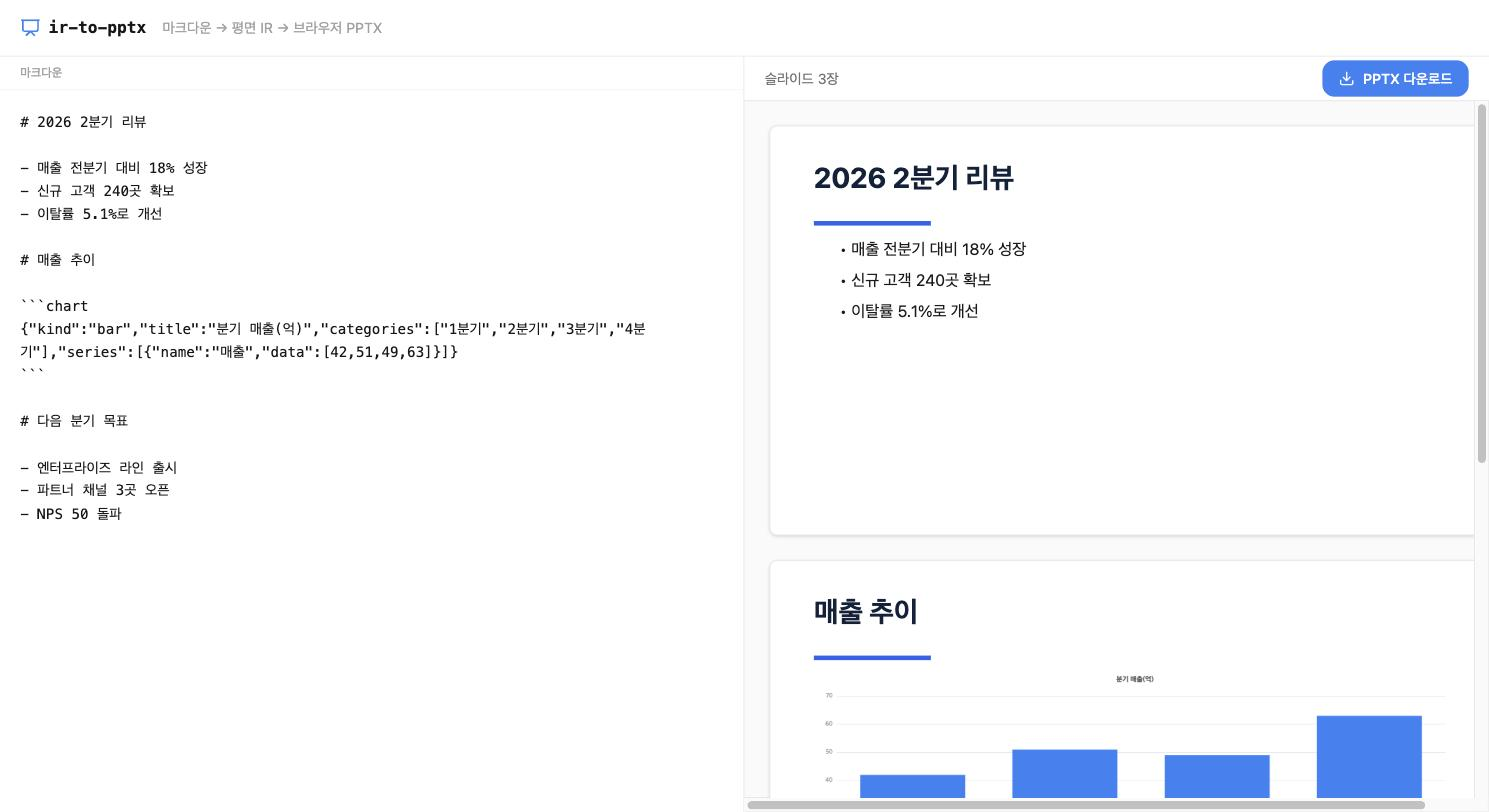
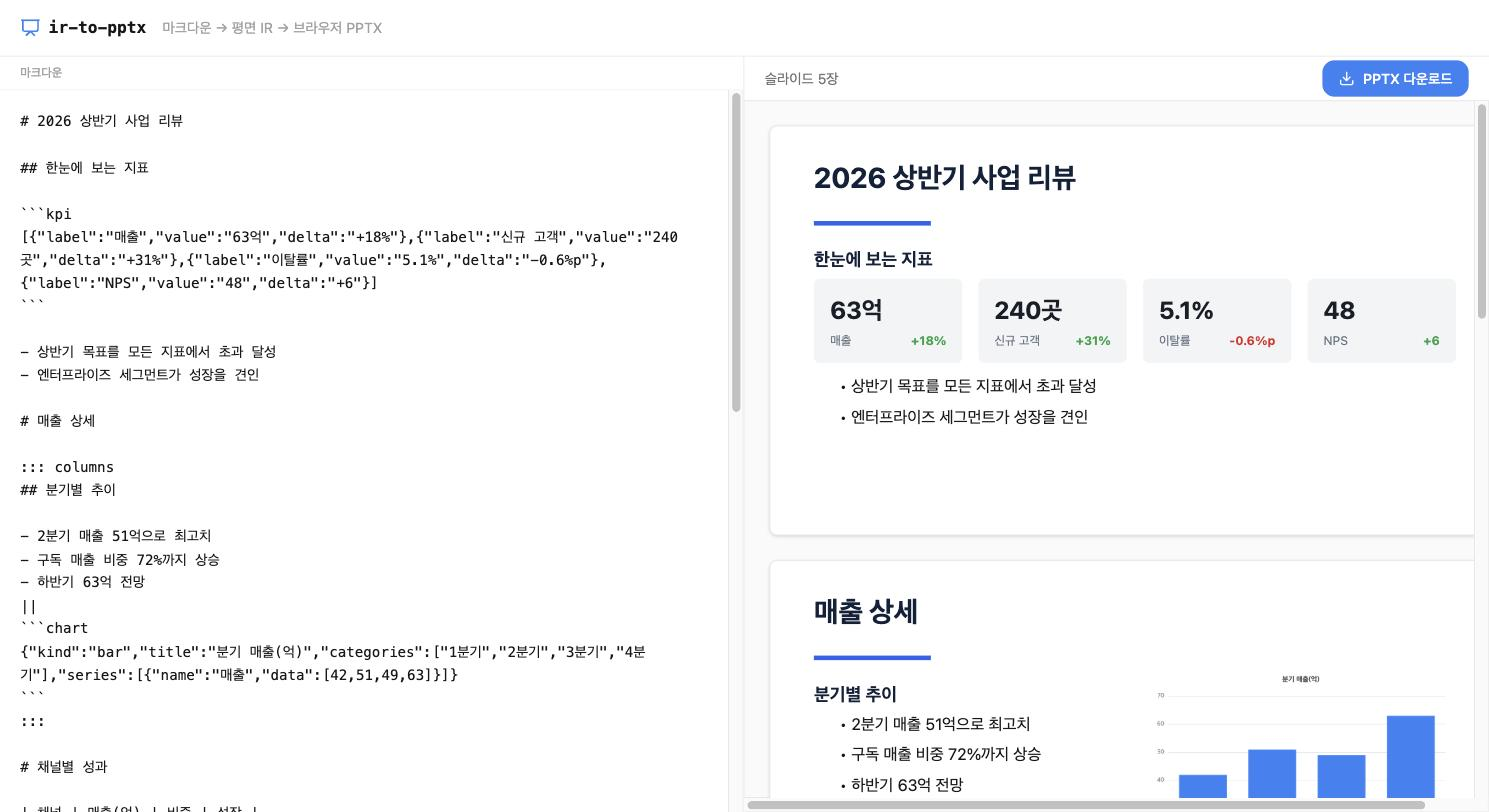
docs: 리치 예시 덱과 새 미리보기, 입력 형식 문법 추가
예시 덱을 KPI 타일·2단 컬럼·표·소제목·bar/line/pie 를 다 쓰는 사업 리뷰로 교체.
README 입력 형식에 소제목·kpi·columns·표 문법과 예시를 넣고, 표 지원으로
바뀐 한계 항목을 정리. 상단 스크린샷도 리치 덱 화면으로 교체.

diff --git a/web/src/sample.ts b/web/src/sample.ts
@@ -1,19 +1,65 @@
 // 처음 화면에 뜨는 예시 덱. 외부 데이터·키 없이 바로 돌아가게 동봉한다.
-export const SAMPLE_MARKDOWN = `# 2026 2분기 리뷰
+// samples/deck.md 와 같은 내용이다.
+export const SAMPLE_MARKDOWN = `# 2026 상반기 사업 리뷰
 
-- 매출 전분기 대비 18% 성장
-- 신규 고객 240곳 확보
-- 이탈률 5.1%로 개선
+## 한눈에 보는 지표
 
-# 매출 추이
+\`\`\`kpi
+[{"label":"매출","value":"63억","delta":"+18%"},{"label":"신규 고객","value":"240곳","delta":"+31%"},{"label":"이탈률","value":"5.1%","delta":"-0.6%p"},{"label":"NPS","value":"48","delta":"+6"}]
+\`\`\`
 
+- 상반기 목표를 모든 지표에서 초과 달성
+- 엔터프라이즈 세그먼트가 성장을 견인
+
+# 매출 상세
+
+::: columns
+## 분기별 추이
+
+- 2분기 매출 51억으로 최고치
+- 구독 매출 비중 72%까지 상승
+- 하반기 63억 전망
+||
 \`\`\`chart
 {"kind":"bar","title":"분기 매출(억)","categories":["1분기","2분기","3분기","4분기"],"series":[{"name":"매출","data":[42,51,49,63]}]}
 \`\`\`
+:::
 
-# 다음 분기 목표
+# 채널별 성과
 
-- 엔터프라이즈 라인 출시
-- 파트너 채널 3곳 오픈
-- NPS 50 돌파
+| 채널 | 매출(억) | 비중 | 성장 |
+|---|---|---|---|
+| 다이렉트 | 28 | 44% | +12% |
+| 파트너 | 19 | 30% | +38% |
+| 마켓플레이스 | 16 | 26% | +9% |
+
+## 파트너 채널이 가장 빠르게 성장
+
+- 신규 파트너 3곳 온보딩 완료
+- 파트너 전용 대시보드 출시가 주효
+
+# 제품 지표
+
+::: columns
+\`\`\`chart
+{"kind":"line","title":"주간 활성 사용자(천명)","categories":["1월","2월","3월","4월","5월","6월"],"series":[{"name":"WAU","data":[12,15,18,21,26,31]}]}
+\`\`\`
+||
+\`\`\`chart
+{"kind":"pie","title":"기능별 사용 비중","categories":["편집","공유","분석","자동화"],"series":[{"name":"사용","data":[38,27,20,15]}]}
+\`\`\`
+:::
+
+# 다음 반기 계획
+
+## 우선순위
+
+- 엔터프라이즈 라인 정식 출시
+- 파트너 채널 5곳으로 확대
+- 자동화 기능 정식 출시
+
+## 리스크
+
+- 대형 계약 갱신 시점이 3분기에 몰려 있음
+- 인프라 비용 증가 추세
 `;

diff --git a/README.md b/README.md
@@ -52,12 +52,16 @@ cd web && pnpm install && pnpm dev
 | 문법 | 결과 |
 |---|---|
 | `# 제목` | 새 슬라이드 + 제목 |
-| `- 항목` | 불릿 한 줄 |
+| `## 소제목` | 본문 안 소제목 |
+| `- 항목` | 불릿 한 줄 (중첩하면 들여쓰기) |
 | 일반 문단 | 본문 텍스트 |
 | `![대체텍스트](url)` | 이미지 |
+| 마크다운 표 | 표 |
 | `chart` 코드블록 | 차트 |
+| `kpi` 코드블록 | 지표 타일 행 |
+| `::: columns` 블록 | 2단 나란히 배치 |
 
-차트 블록은 JSON 한 덩이다.
+차트 블록은 JSON 한 덩이다. `kind`는 `bar`, `line`, `pie` 중 하나다.
 
 ````
 ```chart
@@ -65,7 +69,25 @@ cd web && pnpm install && pnpm dev
 ```
 ````
 
-`kind`는 `bar`, `line`, `pie` 중 하나다. 예시 덱은 `samples/deck.md`에 있고, 앱을 처음 열면 이 내용이 채워져 있다.
+KPI 타일은 값과 라벨의 배열이다. `delta`는 선택이고 부호에 따라 색이 붙는다.
+
+````
+```kpi
+[{"label":"매출","value":"63억","delta":"+18%"},{"label":"이탈률","value":"5.1%"}]
+```
+````
+
+2단 배치는 `::: columns` 와 `:::` 사이에 칸을 `||` 로 나눈다. 각 칸은 다시 마크다운이라 불릿도 차트도 넣을 수 있다.
+
+```
+::: columns
+- 왼쪽 불릿
+||
+오른쪽 (여기에 차트 블록 등)
+:::
+```
+
+예시 덱은 `samples/deck.md`에 있고, 앱을 처음 열면 이 내용이 채워져 있다.
 
 ## 설계 결정
 
@@ -76,7 +98,7 @@ cd web && pnpm install && pnpm dev
 ## 한계
 
 - 텍스트 줄바꿈을 측정하지 않는다. 불릿과 문단은 한 줄 높이로 세로 자리를 잡는다. 아주 긴 한 줄이 박스 안에서 접히면 그만큼 촘촘해질 수 있다. 폰트 메트릭까지 다루는 건 이 데모의 범위를 넘는다.
-- 마크다운은 위 표에 있는 것만 다룬다. 표, 중첩 인용, 코드 하이라이트 같은 건 아직 없다.
+- 마크다운은 위 표에 있는 것만 다룬다. 중첩 인용, 코드 하이라이트, 인라인 강조(볼드/이탤릭)는 아직 없다.
 - 프론트 번들이 크다. ECharts와 pptxgenjs를 통째로 담아서다. 코드 스플리팅은 넣지 않았다.
 
 ## 테스트

diff --git a/samples/deck.md b/samples/deck.md
@@ -1,17 +1,62 @@
-# 2026 2분기 리뷰
+# 2026 상반기 사업 리뷰
 
-- 매출 전분기 대비 18% 성장
-- 신규 고객 240곳 확보
-- 이탈률 5.1%로 개선
+## 한눈에 보는 지표
 
-# 매출 추이
+```kpi
+[{"label":"매출","value":"63억","delta":"+18%"},{"label":"신규 고객","value":"240곳","delta":"+31%"},{"label":"이탈률","value":"5.1%","delta":"-0.6%p"},{"label":"NPS","value":"48","delta":"+6"}]
+```
 
+- 상반기 목표를 모든 지표에서 초과 달성
+- 엔터프라이즈 세그먼트가 성장을 견인
+
+# 매출 상세
+
+::: columns
+## 분기별 추이
+
+- 2분기 매출 51억으로 최고치
+- 구독 매출 비중 72%까지 상승
+- 하반기 63억 전망
+||
 ```chart
 {"kind":"bar","title":"분기 매출(억)","categories":["1분기","2분기","3분기","4분기"],"series":[{"name":"매출","data":[42,51,49,63]}]}
 ```
+:::
 
-# 다음 분기 목표
+# 채널별 성과
 
-- 엔터프라이즈 라인 출시
-- 파트너 채널 3곳 오픈
-- NPS 50 돌파
+| 채널 | 매출(억) | 비중 | 성장 |
+|---|---|---|---|
+| 다이렉트 | 28 | 44% | +12% |
+| 파트너 | 19 | 30% | +38% |
+| 마켓플레이스 | 16 | 26% | +9% |
+
+## 파트너 채널이 가장 빠르게 성장
+
+- 신규 파트너 3곳 온보딩 완료
+- 파트너 전용 대시보드 출시가 주효
+
+# 제품 지표
+
+::: columns
+```chart
+{"kind":"line","title":"주간 활성 사용자(천명)","categories":["1월","2월","3월","4월","5월","6월"],"series":[{"name":"WAU","data":[12,15,18,21,26,31]}]}
+```
+||
+```chart
+{"kind":"pie","title":"기능별 사용 비중","categories":["편집","공유","분석","자동화"],"series":[{"name":"사용","data":[38,27,20,15]}]}
+```
+:::
+
+# 다음 반기 계획
+
+## 우선순위
+
+- 엔터프라이즈 라인 정식 출시
+- 파트너 채널 5곳으로 확대
+- 자동화 기능 정식 출시
+
+## 리스크
+
+- 대형 계약 갱신 시점이 3분기에 몰려 있음
+- 인프라 비용 증가 추세
